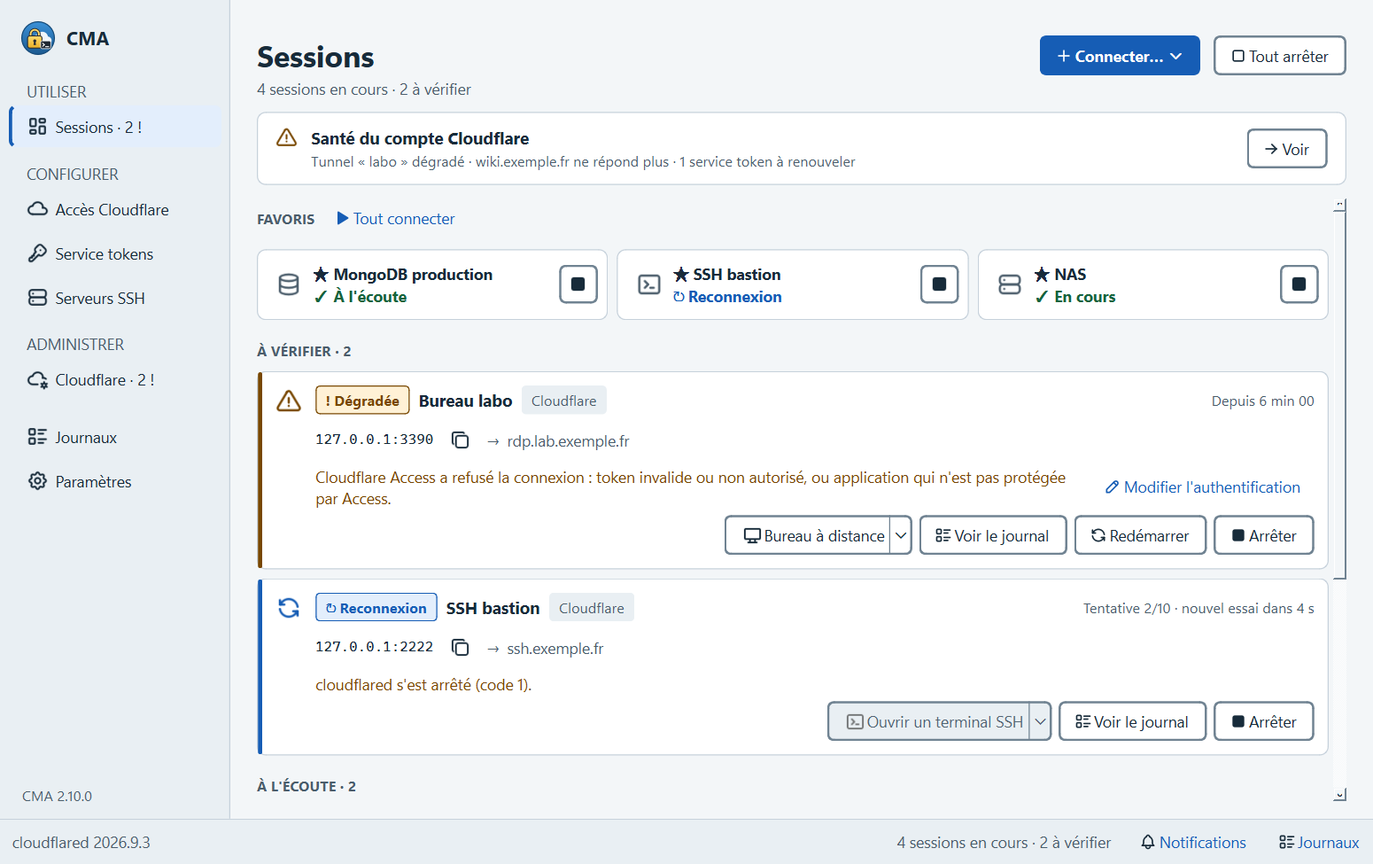
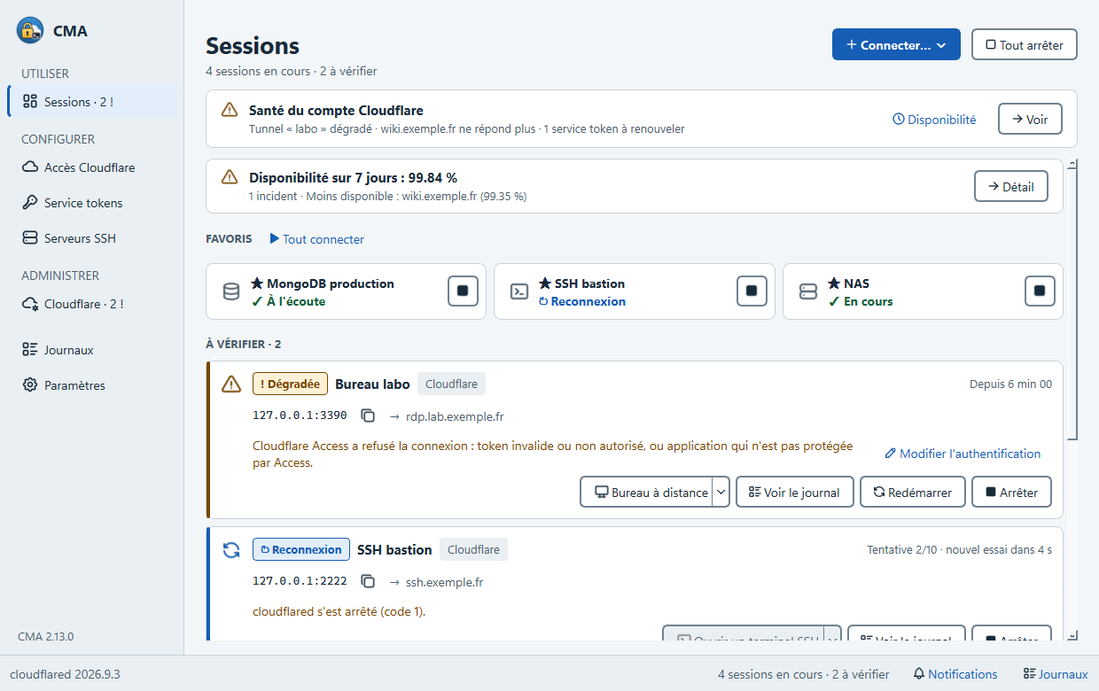
P37: documentation de P33 à P36, captures (objectifs, tuile), contexte transmis à la boîte ouverte depuis la tuile

diff --git a/scripts/capture_screenshots.py b/scripts/capture_screenshots.py
@@ -424,8 +424,8 @@ def capture_guide(window, output: Path) -> None:
     review.table.selectRow(0)
     save(review, "guide-bilan.png")
 
-    demo_availability(ctx.paths.data_dir / "availability.json")
-    availability = AvailabilityDialog(window, ctx.paths.data_dir / "availability.json")
+    # Le journal de démonstration est créé une fois, par `main` (la tuile de la page Sessions le lit aussi).
+    availability = AvailabilityDialog(window, ctx.paths.data_dir / "availability.json", ctx)
     availability.table.selectRow(availability.keys.index("service:wiki.exemple.fr"))
     save(availability, "guide-disponibilite.png")
 
@@ -447,6 +447,40 @@ def capture_guide(window, output: Path) -> None:
     capture_guide_health_menu(window, output)
     capture_guide_sends(window, output)
     capture_guide_maintenance_card(window, output)
+    capture_guide_objectives(window, output)
+
+
+def capture_guide_objectives(window, output: Path) -> None:
+    """`guide-objectifs.png` : boîte Disponibilité avec la colonne « Objectif » : un objectif par défaut, un objectif
+    propre tenu et un autre manqué (▼ et teinte d'alerte). Les objectifs de démonstration sont retirés ensuite."""
+    from cma.core.slo import set_target
+    from cma.ui.views.cloud.availability import AvailabilityDialog
+
+    ctx = window.ctx
+    settings = ctx.config().settings
+    saved = (dict(settings.availability_targets), settings.default_availability_target)
+
+    def demo(config) -> None:
+        set_target(config, "service:wiki.exemple.fr", 99.9)  # 99,45 % sur 30 jours : sous l'objectif
+        set_target(config, "service:grafana.lab.exemple.fr", 99.5)  # tenu
+        config.settings.default_availability_target = 99.0  # tunnels sans objectif propre
+
+    def restore(config) -> None:
+        config.settings.availability_targets, config.settings.default_availability_target = saved
+
+    ctx.update_config(demo)
+    try:
+        dialog = AvailabilityDialog(window, ctx.paths.data_dir / "availability.json", ctx)
+        dialog.table.selectRow(dialog.keys.index("service:grafana.lab.exemple.fr"))
+        dialog.show()
+        for _ in range(8):
+            QApplication.processEvents()
+        dialog.grab().save(str(output / "guide-objectifs.png"))
+        dialog.close()
+        dialog.deleteLater()
+    finally:
+        ctx.update_config(restore)
+        QApplication.processEvents()
 
 
 def capture_guide_alerts(window, output: Path) -> None:
@@ -628,7 +662,9 @@ def main() -> int:
         core=core, engine=engine, runner=TaskRunner(engine), bridge=bridge, theme=theme, prompter=None
     )  # type: ignore[arg-type]
     demo_config(ctx)
+    demo_availability(paths.data_dir / "availability.json")
 
+    from cma.core.availability import AvailabilityLog
     from cma.ui.main_window import MainWindow
     from cma.ui.views import settings as settings_view
 
@@ -677,6 +713,10 @@ def main() -> int:
         window.settings.data_dir.setText(r"C:\Users\<utilisateur>\AppData\Roaming\CloudflaredManager")
         suffix = "sombre" if theme_name == Theme.DARK else "clair"
         show_demo_health(window)
+        # Tuile « Disponibilité » de la page Sessions : le journal de la surveillance est tenu en mémoire par la
+        # fenêtre ; on lui donne celui de démonstration.
+        window.availability = AvailabilityLog(paths.data_dir / "availability.json")
+        window.dashboard.uptime.refresh()
         for key in ("dashboard", "profiles", "tokens", "ssh", "cloud", "logs", "settings"):
             window.show_view(key)
             if key == "profiles":

diff --git a/tests/ui/test_uptime_tile.py b/tests/ui/test_uptime_tile.py
@@ -250,3 +250,20 @@ def test_tile_module_is_light_at_import():
     assert tile_module.__file__
     result = subprocess.run([sys.executable, "-c", code], check=False, capture_output=True, timeout=60)
     assert result.returncode == 0, result.stderr.decode(errors="replace")
+
+
+def test_dialog_opened_from_the_window_gets_its_context(qtbot, gui, tmp_path, monkeypatch):
+    """Ouverte depuis la tuile ou la carte « Santé » (parent : la fenêtre), la boîte reçoit le contexte : objectifs
+    affichés et boutons « Définir l'objectif… » et « Objectif par défaut… » actifs."""
+    _ctx, window = gui
+    path = tmp_path / "availability.json"
+    sample_log(path).save()
+    shown: list[AvailabilityDialog] = []
+    monkeypatch.setattr(
+        AvailabilityDialog, "exec", lambda self: shown.append(self) or QDialog.DialogCode.Accepted
+    )
+    show_availability_on(window, path, "service:wiki.exemple.fr")
+    dialog = shown[0]
+    qtbot.addWidget(dialog)
+    assert dialog.ctx is window.ctx
+    assert dialog.default_button.isEnabled() and dialog.target_button.isEnabled()

diff --git a/src/cma/ui/views/uptime_tile.py b/src/cma/ui/views/uptime_tile.py
@@ -167,6 +167,7 @@ def show_availability_on(parent: QWidget, path: Path, key: str | None) -> None:
     """Fonction de module : les tests la remplacent pour ne pas ouvrir de boîte modale. Importée à l'ouverture."""
     from cma.ui.views.cloud.availability import AvailabilityDialog
 
-    dialog = AvailabilityDialog(parent, path)
+    # Le contexte de la fenêtre (objectifs lus et modifiables), comme `show_availability` depuis les outils du compte.
+    dialog = AvailabilityDialog(parent, path, getattr(parent, "ctx", None))
     select_key(dialog, key)
     dialog.exec()

diff --git a/docs/GUIDE.md b/docs/GUIDE.md
@@ -166,16 +166,47 @@ importé **désactivé** : ressaisissez son adresse dans Paramètres › Génér
 export chiffré (case **Inclure les secrets**, avec une phrase de passe), l'adresse suit, chiffrée comme les
 autres secrets, et le canal reste actif.
 
+### Suivre la disponibilité, fixer des objectifs
+
+Sur la page **Sessions**, la tuile **Disponibilité** donne d'un coup d'œil le taux des 7 derniers jours, le nombre
+d'incidents et l'objet le moins disponible ; **Détail** ouvre la boîte ci-dessous sur cet objet. Elle reste cachée
+tant que la surveillance n'a rien relevé. Quand la carte « Santé du compte » signale une panne, son bouton
+**Disponibilité** ouvre la même boîte sur le premier objet en panne.
+
+![La tuile Disponibilité, sous la carte Santé du compte](captures/dashboard-clair.png)
+
 **Outils › Disponibilité…** montre, pour chaque tunnel et service, le taux de disponibilité sur 7 et 30 jours, le
-temps de réponse moyen et la liste des incidents (début, fin, durée, cause). Choisissez une ligne pour son
-graphique jour par jour (7, 30 ou 90 jours) : une barre par jour local (verte à partir de 99,9 %, orange à partir de
-98 %, rouge en dessous) et la courbe du temps de réponse moyen.
+temps de réponse moyen, le nombre d'incidents, l'objectif et la liste des incidents (début, fin, durée, cause).
+Choisissez une ligne pour son graphique jour par jour (7, 30 ou 90 jours) : une barre par jour local (verte à partir
+de 99,9 %, orange à partir de 98 %, rouge en dessous) et la courbe du temps de réponse moyen.
 
 ![Disponibilité d'un service sur 30 jours](captures/guide-disponibilite.png)
 
 **Exporter le rapport…** enregistre la période choisie en page HTML autonome (à joindre à un compte rendu) ou en CSV
 pour un tableur : disponibilité, durée des pannes et incidents de chaque objet.
 En ligne de commande, `cma availability --output rapport.html` (ou `.csv`, `.json`) écrit le même rapport.
+
+Un service doit tenir au moins 99,9 % du temps ? **Définir l'objectif…** (même boîte) fixe la disponibilité minimale
+attendue du tunnel ou du service choisi, de 50 à 100 %. **Objectif par défaut…** fixe celle de tous les objets qui
+n'ont pas d'objectif propre, et **Retirer l'objectif**, dans la boîte de saisie, supprime l'objectif d'un objet. La
+colonne **Objectif** le compare à la disponibilité des 30 derniers jours : sous l'objectif, la valeur porte un ▼ et,
+avec le taux sur 30 jours, la teinte d'alerte. Sans objectif, elle affiche « — ».
+
+![Disponibilité : l'objectif de chaque objet, wiki.exemple.fr sous le sien](captures/guide-objectifs.png)
+
+Quand un tunnel ou un service passe sous son objectif, CMA envoie **une seule alerte** à chaque canal d'alerte actif
+(« objectif manqué »), puis un message de retour quand il remonte au-dessus (« objectif retrouvé », seulement aux
+canaux qui reçoivent les retours), depuis CMA ouvert comme depuis la tâche planifiée. Rien n'est envoyé pour un objet
+en sourdine ou en maintenance (le message vient à la fin de la sourdine si la situation dure), ni pour un objet sans
+relevé sur les 30 jours, ni pour un type que la surveillance ne relève plus. **Envois récents…** note ces messages avec
+la nature **Objectif**.
+
+Limite : une disponibilité qui oscille autour de l'objectif peut alterner alerte et retour (pas d'hystérésis).
+
+Pour un compte rendu mensuel, `cma availability --month 2026-10` donne la disponibilité du mois civil (en jours
+locaux) de chaque tunnel et service, avec son objectif et l'écart en points ; le mois en cours va jusqu'à aujourd'hui.
+Avec `--output rapport.html` (ou `.csv`, `.json`), le rapport part dans un fichier : une ligne par objet, puis les
+incidents du mois.
 
 ## Renouveler un service token
 
@@ -260,6 +291,37 @@ Cloudflare. Pour un autre accès Cloudflare (un client, un compte personnel), **
 collez le jeton et donnez-lui un nom. Le choix du jeton apparaît alors dans l'en-tête ; chaque jeton revient à son
 dernier compte, et la surveillance suit le jeton choisi.
 
+### Être prévenu des pannes de tous les comptes
+
+Par défaut, la surveillance ne relève que le compte affiché dans la vue Cloudflare : les pannes des autres comptes ne
+vous préviennent pas. Cochez **Paramètres › Général › Cloudflare › Surveiller tous les comptes** (la case est
+disponible à partir de deux jetons) pour relever **chaque jeton d'API enregistré**, avec le dernier compte choisi avec
+lui, CMA ouvert comme depuis la tâche planifiée. Le jeton affiché garde le compte de la vue ; un jeton qui n'a encore
+choisi aucun compte prend le premier qu'il voit. Un compte vu par deux jetons n'est relevé qu'une fois (le jeton de la
+surveillance, s'il est choisi, passe d'abord).
+
+- Dès que deux comptes sont surveillés, le nom du compte suit chaque tunnel et chaque nom d'hôte en panne : « labo
+  (Compte A) ». Il apparaît dans les notifications, les alertes envoyées aux canaux, le sous-menu **Pannes** de l'icône
+  et le journal de disponibilité. Deux comptes du même nom sont distingués par le nom de leur jeton.
+- Un jeton refusé, absent du coffre ou injoignable n'arrête pas les autres : il est signalé dans le journal de CMA et,
+  pour `cma tunnels`, sur la sortie d'erreur (code de retour 1 si rien d'autre ne va mal ; avec `--json`, chaque
+  tunnel porte son compte dans `account`). Tant qu'un compte n'a pas pu être lu, CMA ne clôt aucun de ses incidents et
+  n'annonce pas de faux retour.
+- Pour surveiller **deux comptes d'un même jeton**, enregistrez le jeton deux fois, sous deux noms, et choisissez un
+  compte différent avec chacun.
+- Les objectifs, sourdines et maintenances restent par tunnel et par nom d'hôte : rien à refaire en activant ou en
+  coupant le réglage.
+
+Limites : **Ouvrir** (sous-menu **Pannes**) et **Diagnostiquer…** sur un objet d'un autre compte mènent au compte
+affiché, pas au sien : choisissez d'abord son jeton dans la vue Cloudflare ; la carte « Santé du compte » ne nomme le
+compte que pour une panne unique (avec plusieurs pannes, elle les résume).
+
+Attention : **tous les jetons du coffre servent alors à la surveillance**, tâche planifiée comprise. Pour un compte
+que vous ne faites que surveiller, enregistrez un jeton en lecture seule. Le nom du compte part vers les canaux
+d'alerte : chez Cloudflare, le nom par défaut d'un compte contient l'adresse e-mail de son propriétaire (« …'s
+Account »). Renommez le compte si un canal est public (un sujet ntfy). Voir [SECURITE.md](SECURITE.md) et l'[ADR
+0003](adr/0003-surveillance-de-plusieurs-comptes.md).
+
 ## Automatiser en ligne de commande
 
 La commande `cma` (installée avec l'application) lit les mêmes données que l'interface, avec le jeton d'API actif
@@ -270,8 +332,9 @@ message d'usage et le code 2 : essayez la commande à la main avant de la planif
 
 | Commande | Ce qu'elle fait | Code 2 si… |
 | --- | --- | --- |
-| `cma tunnels [--services] [--json]` | état des tunnels, et avec `--services` le test de chaque nom d'hôte HTTP | un tunnel ou un service est en panne |
+| `cma tunnels [--services] [--json]` | état des tunnels, et avec `--services` le test de chaque nom d'hôte HTTP ; avec « Surveiller tous les comptes », chaque jeton avec son compte | un tunnel ou un service est en panne (code 1 si un jeton est illisible et que rien d'autre ne va mal) |
 | `cma availability [--days 1/7/30/90] [--json] [--output FICHIER]` | disponibilité et incidents relevés par la surveillance ; `--output` écrit le rapport dans un fichier `.html`, `.csv` ou `.json` (selon l'extension) au lieu de l'afficher | un incident est en cours (code 1 si le fichier ne peut pas être écrit ou si l'extension est inconnue) |
+| `cma availability --month AAAA-MM [--json] [--output FICHIER]` | rapport d'un mois civil (jours locaux) avec l'objectif et l'écart de chaque objet ; le mois en cours va jusqu'à aujourd'hui ; exclusif avec `--days` ; sans relevé ce mois-là : « Aucun relevé en AAAA-MM. » | — (code 1 si le mois est invalide ou à venir, ou si le fichier ne peut pas être écrit) |
 | `cma review [--json] [--all]` | bilan de sécurité du compte (`--all` : avec les constats ignorés) | un constat de gravité élevée n'est pas ignoré |
 | `cma snapshot` | instantané de la configuration, et ce qui a changé depuis le précédent | quelque chose a changé |
 | `cma alerts test` | un message de test vers chaque canal d'alerte actif | — (code 1 si un canal échoue) |
@@ -279,7 +342,8 @@ message d'usage et le code 2 : essayez la commande à la main avant de la planif
 
 Exemples : `cma review` planifié chaque lundi, qui échoue si un constat élevé apparaît ;
 `cma availability --days 30 --json` en fin de mois pour alimenter un tableau de bord ; `cma availability --days 30
---output rapport.html` pour en tirer une page à joindre à un compte rendu.
+--output rapport.html` pour en tirer une page à joindre à un compte rendu ; `cma availability --month 2026-10 --output
+octobre.html` pour le rapport du mois, objectifs compris.
 
 ## Raccourcis clavier et nouveautés
 

diff --git a/docs/ARCHITECTURE.md b/docs/ARCHITECTURE.md
@@ -40,11 +40,12 @@ Deux règles structurent le code :
 | `src/cma/core/cloudflared/` | Commande sans shell, analyse des journaux, session, binaire et téléchargement vérifié. |
 | `src/cma/core/ssh/` | Connexions asyncssh (rebond ProxyJump compris), clés d'hôte, clés, redirections locales, inverses et SOCKS 5, découverte de ports (Linux et Windows), transfert de fichiers SFTP (`sftp.py`). |
 | `src/cma/core/cfapi.py` | Client de l'API Cloudflare v4 : comptes, zones, tunnels, DNS, Access, service tokens. |
-| `src/cma/core/cfadmin.py` | Relie l'API à la configuration et au coffre : import de profils, tokens, publication, tunnels, jetons d'API nommés, lecture du compte en parallèle. |
+| `src/cma/core/cfadmin.py` | Relie l'API à la configuration et au coffre : import de profils, tokens, publication, tunnels, jetons d'API nommés, lecture du compte en parallèle, relevé de la surveillance d'un ou de tous les comptes (`watch_tunnels`, `watch_services` ; [ADR 0003](adr/0003-surveillance-de-plusieurs-comptes.md)). |
 | `src/cma/core/dnscheck.py`, `hostprobe.py` | DNS des noms d'hôte publiés ; test d'un nom d'hôte depuis Internet (Access, vérification de navigateur, 1033, 502…). |
 | `src/cma/core/tunnelwatch.py`, `servicewatch.py` | Ce qui a changé d'un relevé à l'autre : tunnels (état de l'API), services publiés (tests depuis Internet). |
 | `src/cma/core/availability.py`, `alerts.py`, `monitoring.py` | Journal de disponibilité (incidents, taux par jour local, 90 jours), alertes vers ntfy, Slack, Teams, Discord ou un webhook, sourdine et maintenances hebdomadaires, rappels des pannes qui durent ; suites d'un relevé communes à l'interface et à la tâche planifiée. |
-| `src/cma/core/alertstate.py`, `digest.py` | État des envois (`alert_state.json` : derniers rappels, semaine du dernier résumé, [ADR 0002](adr/0002-etat-des-alertes-hors-de-la-configuration.md)) ; résumé hebdomadaire de la disponibilité, dû le lundi à partir de 9 h. |
+| `src/cma/core/alertstate.py`, `digest.py` | État des envois (`alert_state.json` : derniers rappels, semaine du dernier résumé, objets annoncés sous leur objectif, [ADR 0002](adr/0002-etat-des-alertes-hors-de-la-configuration.md)) ; résumé hebdomadaire de la disponibilité, dû le lundi à partir de 9 h. |
+| `src/cma/core/slo.py`, `slo_report.py` | Objectifs de disponibilité : objectif d'un objet ou par défaut, état sous l'objectif sur 30 jours, franchissements à annoncer (une alerte, puis le retour) ; rapport d'un mois civil en jours locaux (texte, CSV, JSON, HTML). Sans Qt ni envoi : la sourdine vient de `monitoring`. |
 | `src/cma/core/alertlog.py` | Journal des envois d'alertes (`alert_log.json`, 200 derniers, [ADR 0002](adr/0002-etat-des-alertes-hors-de-la-configuration.md)) : date, canal, nature, objet, résultat ; aucune adresse (`scrub`), écriture atomique, verrou de processus, tâche planifiée seulement si CMA est fermé. |
 | `src/cma/core/security.py` | Bilan de sécurité du compte (analyse pure) : constats, gravité, correction possible. |
 | `src/cma/core/privnet.py`, `audit.py`, `traffic.py`, `snapshot.py`, `permissions.py` | Outils du compte : réseaux privés (WARP), journal d'audit, trafic GraphQL, instantanés comparés, permissions du jeton vérifiées en lecture. |
@@ -62,6 +63,7 @@ Deux règles structurent le code :
 | `src/cma/platform/` | Job Object Windows, démarrage automatique, lanceurs (terminal, RDP, Compass), tâche planifiée, notification système, liens `cma://`, nom du réseau Wi-Fi. |
 | `src/cma/ui/` | Interface : fenêtre, vues, boîtes de dialogue (palette Ctrl+K, espaces de travail, diagnostic), thème, verrouillage, zone de notification. |
 | `src/cma/ui/dialogs/sends.py` | Boîte « Envois récents » (Paramètres › Général › Alertes) : lit `alert_log.json`, échecs en rouge, effacement du journal après confirmation. |
+| `src/cma/ui/views/uptime_tile.py` | Tuile « Disponibilité » de la page Sessions (7 derniers jours, lue dans le journal en mémoire de la surveillance) et ouverture de la boîte Disponibilité sur un objet. |
 | `src/cma/ui/monitor.py`, `wake.py` | Surveillance du compte côté Qt (minuteurs, signaux ; [ADR 0001](adr/0001-surveillance-hors-de-la-fenetre.md)) ; sortie de veille et retour du réseau. |
 | `src/cma/ui/views/cloud/` | Vue Cloudflare : `view.py` (compte, en-tête, tuiles), onglets `tunnels_tab.py`, `apps_tab.py`, `tokens_tab.py`, menu Outils (`account_tools.py`) et ses boîtes. |
 | `src/cma/i18n.py`, `i18n_<code>.py` | Traduction : source en français, catalogues anglais, allemand et espagnol vérifiés par test, repli sur l'anglais. |
@@ -114,8 +116,8 @@ au premier usage, et l'application les précharge dans un thread 300 ms après l
 
 ```text
 Monitor (ui/monitor.py)                tâche planifiée (cma tunnels --notify, CMA fermé)
-  ├─ toutes les 5 min : tunnel_states()     ├─ tunnel_states() + check_services()
-  ├─ toutes les 15 min : check_services()   │
+  ├─ toutes les 5 min : watch_tunnels()     ├─ watch_tunnels() + watch_services()
+  ├─ toutes les 15 min : watch_services()   │
   │   (jeton de la surveillance, lecture)   │
   ▼                                         ▼
 TunnelWatch / ServiceWatch          core/monitoring.record_tunnels / record_services
@@ -124,6 +126,14 @@ TunnelWatch / ServiceWatch          core/monitoring.record_tunnels / record_serv
   ▼                                         │
 troubled(tunnels, services) ──► navigation « Cloudflare · N ! », zone de notification, carte « Santé du compte »
 ```
+
+Avec « Surveiller tous les comptes », les deux relevés passent par `CloudflareAdmin.watch_tunnels` et `watch_services` :
+chaque jeton d'API nommé est lu avec son dernier compte choisi, un fil par compte, et un jeton en échec n'arrête pas les
+autres (relevé alors incomplet : aucun incident clos). Les clés (`tunnel:<id>`, `service:<nom>`) ne portent pas le
+compte ; seul le libellé le reçoit dès que deux comptes sont surveillés ([ADR
+0003](adr/0003-surveillance-de-plusieurs-comptes.md)). Après chaque relevé, `core/slo.py` compare la disponibilité des
+30 derniers jours à l'objectif de chaque objet et annonce un franchissement une seule fois (état `slo` de
+`alert_state.json`).
 
 La tâche planifiée n'écrit le journal que si CMA est fermé ; elle s'en sert de mémoire pour ne prévenir qu'au début
 et à la fin d'une panne. Un objet en sourdine est relevé et journalisé, sans notification ni alerte. Une

diff --git a/CLAUDE.md b/CLAUDE.md
@@ -248,6 +248,32 @@ Tout ce qui a été retiré reste lisible dans l'historique git (`git log --diff
   de processus sérialise « lire, ajouter, écrire », et un journal qui ne s'écrit pas n'empêche jamais une alerte
   de partir. Aucune adresse, même en morceaux : messages passés par `scrub` (200 caractères). La tâche planifiée
   ne l'écrit que si CMA est fermé ; `cma alerts test` et `digest` y notent leurs envois.
+- **Objectifs de disponibilité** (`cma.core.slo`, `slo_report`, P33) : objectif par objet
+  (`Settings.availability_targets`, clés `tunnel:<id>` et `service:<nom>`) puis `default_availability_target`, de 50 à
+  100 %, comparé à la disponibilité des 30 derniers jours locaux. Les objets déjà annoncés sous leur objectif sont dans
+  l'état `slo` de `alert_state.json` (ADR 0002) : **une alerte par franchissement**, puis le retour (aux canaux qui
+  veulent les retours) ; l'état note l'envoi seulement quand un canal l'a reçu (le retour, dans tous les cas). Rien pour
+  un objet en sourdine ou en maintenance, ni sans relevé (un trou n'est pas une panne). **Pas d'hystérésis** : un objet
+  qui oscille autour de l'objectif alterne alerte et retour, c'est une limite assumée. Les alertes partent aussi CMA
+  ouvert sans rappels ni résumé (`has_targets` garde le calcul quand aucun objectif n'existe). `cma availability --month`
+  vit dans `cli.show_month_availability` (code 0, 1 si mois invalide ou à venir) ; le mois se calcule sur des dates
+  locales, pas des instants.
+- **Plusieurs comptes** (P34, [ADR 0003](docs/adr/0003-surveillance-de-plusieurs-comptes.md)) : avec
+  `watch_all_accounts`, `CloudflareAdmin.watch_tunnels` et `watch_services` relèvent **chaque jeton d'API avec son
+  dernier compte choisi** (`ApiToken.account_id` ; pour le jeton actif, le compte de la vue), pas tous les comptes qu'il
+  voit : deux comptes d'un même jeton, c'est le jeton enregistré deux fois. Un compte lu par deux jetons n'est relevé
+  qu'une fois (jeton de la surveillance, puis jeton actif). **Clés non préfixées** : `tunnel:<id>` et `service:<nom>`
+  gardent leur forme (identifiants uniques chez Cloudflare), donc journal, sourdines, maintenances et `alert_state.json`
+  n'ont rien à migrer ; seul le libellé reçoit « (Compte A) » dès que deux comptes sont surveillés. Un jeton en échec est
+  journalisé (`WatchFailure`) sans arrêter les autres, et le relevé incomplet (`complete=False`) ne clôt aucun incident.
+  Limites connues : « Ouvrir » et « Diagnostiquer… » sur un objet d'un autre compte ouvrent le compte affiché, et la carte
+  « Santé du compte » ne nomme le compte que pour une panne unique. Les tests de durée utilisent `delay` du faux serveur
+  (`two_accounts`).
+- **Verrou des règles d'ingress** (`cfapi._INGRESS_LOCK`, P36) : toute modification de la configuration d'un tunnel
+  (lecture, changement, PUT complet) passe par `@_ingress_exclusive`. Une instance de `CloudflareApi` est recréée à chaque
+  appel de `CloudflareAdmin.api()` : le verrou est donc global au module (un `RLock`), pas un attribut de l'instance.
+  Sans lui, trois « Monter » rapprochés lisaient la même configuration et le dernier écrasait les autres. Une nouvelle
+  méthode qui écrit l'ingress prend le même décorateur.
 - **Travail en agents parallèles** : chaque agent a son `git worktree` sous `.claude/worktrees/`, et lance les
   tests depuis ce worktree avec `PYTHONPATH=src` et le `.venv` du dépôt principal. Les traductions passent par un
   JSON que l'orchestrateur réapplique à l'intégration : les trois catalogues entrent en conflit à la fusion. Une
@@ -269,6 +295,11 @@ Qt et PySide :
   des tunnels, puis sur le tableau des service tokens après un premier correctif limité aux arbres. Reproduit
   dans un conteneur avec la suite complète répétée (un abandon toutes les deux ou trois exécutions) ou la vue
   Cloudflare en boucle avec `pytest --no-qt-log -s` (Python 3.14 affiche alors la pile C).
+- `table.selectRow(n)` laisse parfois la sélection vide sous la charge (suite en parallèle) : un test qui en dépend
+  sélectionne explicitement par le modèle de sélection (`selectionModel().setCurrentIndex(index, ClearAndSelect | Rows)`,
+  test SFTP de `test_views.py`).
+- `selectRow` annonce la sélection **avant** de poser l'index courant : un détail qui dépend de l'index courant doit
+  aussi suivre `currentChanged`, sinon il reste parfois vide (détail des journaux, corrigé en P37).
 - `monkeypatch.setattr(QMenu, "exec", …)` n'intercepte pas l'appel : le menu modal bloque le test. Séparer la
   construction du menu de son `exec`.
 - Un widget d'une vue non affichée a `isVisible() == False` : afficher la vue avant de tester la visibilité.

diff --git a/docs/SECURITE.md b/docs/SECURITE.md
@@ -12,8 +12,8 @@ Ce document décrit ce que CMA protège, comment, et ses limites.
 | Clés privées SSH générées | Dossier `ssh_keys` du dossier de données, chiffrables par phrase de passe (bcrypt/OpenSSH). |
 | Configuration `config.json` | Ne contient aucun secret. |
 | Instantanés `snapshots/*.json` | Configuration du compte Cloudflare (règles, politiques, DNS, Client ID des tokens) ; aucun jeton ni secret. Les 30 derniers par compte. |
-| Disponibilité `availability.json` | Incidents et taux des tunnels et services (noms d'hôte, états, durées) ; 90 jours au plus. |
-| État des alertes `alert_state.json` | Dates des derniers rappels de pannes, semaine du dernier résumé hebdomadaire et tunnel de chaque nom d'hôte ; aucun secret. |
+| Disponibilité `availability.json` | Incidents et taux des tunnels et services (noms d'hôte, états, durées) ; 90 jours au plus. Avec « Surveiller tous les comptes », le libellé d'un objet suit le nom de son compte (pas sa clé). |
+| État des alertes `alert_state.json` | Dates des derniers rappels de pannes, semaine du dernier résumé hebdomadaire, tunnel de chaque nom d'hôte et objets déjà annoncés sous leur objectif de disponibilité (`slo`, avec la date de l'annonce) ; aucun secret. |
 | Journal des envois `alert_log.json` | Les 200 derniers envois vers les canaux d'alerte (date, nom et type du canal, nature, objet, résultat). Aucun secret : l'adresse d'un canal n'y est jamais écrite, ni en entier ni en morceaux ; les erreurs sont rédigées, les adresses masquées, 200 caractères au plus. Fichier local du dossier de données, hors de la configuration et de tout export, effaçable depuis CMA. |
 | Rapport de disponibilité exporté | Mêmes données (noms d'hôte, taux, incidents), aucun jeton ni secret. La page HTML est autonome : ni script ni ressource externe. |
 | Adresses des canaux d'alerte | Coffre du système (clé `alert:<id>`) : une adresse ntfy, Slack ou Teams vaut un jeton. |
@@ -49,6 +49,14 @@ Ce document décrit ce que CMA protège, comment, et ses limites.
   par une lecture.
 - La surveillance (CMA ouvert ou tâche planifiée) peut utiliser son propre jeton, en lecture seule : un poste
   compromis n'ouvre alors pas l'écriture sur le compte (Paramètres › Général › Cloudflare).
+- **« Surveiller tous les comptes »** (désactivé par défaut) étend la surveillance à **tous les jetons d'API du
+  coffre**, tâche planifiée comprise : chacun sert, à chaque relevé, avec son dernier compte choisi. Un jeton qui
+  peut écrire sur un compte qu'on ne fait que surveiller élargit ce qu'un poste compromis atteint : enregistrez pour
+  ces comptes des jetons en lecture seule. Un jeton refusé est seulement journalisé (jamais sa valeur).
+- Le nom du compte accompagne alors chaque panne, et part **vers les canaux d'alerte** et dans les libellés du
+  journal de disponibilité. Chez Cloudflare, le nom par défaut d'un compte contient l'adresse e-mail de son
+  propriétaire (« …'s Account ») : un canal public (un sujet ntfy) la verrait. Renommez le compte chez Cloudflare si
+  un canal n'est pas privé. Décision et limites : [ADR 0003](adr/0003-surveillance-de-plusieurs-comptes.md).
 - « Exiger Access au niveau du tunnel » fait vérifier le jeton Access par cloudflared lui-même
   (`originRequest.access`) : sans application Access, le service reste fermé au lieu de s'ouvrir. Le bilan de
   sécurité (Outils) signale les noms d'hôte publiés sans Access, les politiques ouvertes à tous et les secrets
@@ -72,7 +80,9 @@ Ce document décrit ce que CMA protège, comment, et ses limites.
 - « Oublier le jeton… » le retire du coffre, après confirmation. Révoquez-le aussi dans le tableau de bord Cloudflare si besoin.
 - En ligne de commande, `cma tunnels` (jeton de la surveillance), `cma review` et `cma snapshot` (jeton actif)
   lisent le jeton d'API dans le coffre ; `cma alerts test` y lit les adresses des canaux d'alerte ; `cma
-  availability` ne lit que `availability.json`. Aucune n'accepte de jeton en argument ni n'en affiche.
+  availability` ne lit que `availability.json` (et `config.json`, sans secret, pour les objectifs de `--month`).
+  Avec « Surveiller tous les comptes », `cma tunnels` lit tous les jetons du coffre. Aucune n'accepte de jeton en
+  argument ni n'en affiche.
   `cma review` ne fait que lire : les corrections du bilan se font dans l'interface, après confirmation.
 
 ## Mise à jour de CMA

diff --git a/CHANGELOG.md b/CHANGELOG.md
@@ -2,6 +2,44 @@
 
 Format inspiré de [Keep a Changelog](https://keepachangelog.com/fr/1.1.0/), numérotation [SemVer](https://semver.org/lang/fr/).
 
+## [Non publié]
+
+### Ajouté
+- **Objectifs de disponibilité** (Outils › Disponibilité…) : **Définir l'objectif…** pose, change ou retire
+  l'objectif d'un tunnel ou d'un service, **Objectif par défaut…** celui des objets qui n'en ont pas (de 50 à 100 %).
+  La disponibilité des 30 derniers jours est comparée à l'objectif : la colonne « Objectif » le montre, avec un ▼ et la
+  teinte d'alerte sous l'objectif. CMA prévient **une seule fois** sur les canaux d'alerte quand un objet passe
+  dessous, puis quand il remonte (aux canaux qui veulent les retours), CMA ouvert comme depuis la tâche planifiée.
+  Rien pour un objet en sourdine ou en maintenance, ni sans relevé. Les envois ont la nature « Objectif » dans le
+  journal des envois. Limite : pas d'hystérésis, une disponibilité qui oscille autour de l'objectif peut alterner alerte
+  et retour.
+- **Rapport mensuel** : `cma availability --month AAAA-MM` donne la disponibilité d'un mois civil (en jours locaux) avec
+  l'objectif et l'écart de chaque objet ; le mois en cours va jusqu'à aujourd'hui. `--json` et `--output` (HTML, CSV ou
+  JSON selon l'extension) fonctionnent comme pour `--days`, avec lequel `--month` est exclusif.
+- **Surveillance de plusieurs comptes** (Paramètres › Général › Cloudflare › **Surveiller tous les comptes**,
+  désactivé par défaut) : chaque jeton d'API nommé est relevé avec le dernier compte choisi avec lui, CMA ouvert comme
+  depuis la tâche planifiée. Dès que deux comptes sont surveillés, le nom du compte suit chaque panne (« labo (Compte
+  A) ») dans les notifications, les alertes, le menu « Pannes » et le journal de disponibilité. Un jeton refusé ne
+  bloque pas les autres : `cma tunnels` le signale sur la sortie d'erreur (code 1 si rien d'autre ne va mal) et ajoute
+  le champ `account` à sa sortie `--json`. Pour surveiller deux comptes d'un même jeton, l'enregistrer deux fois.
+  Limites : **Ouvrir** et **Diagnostiquer…** sur un objet d'un autre compte mènent au compte affiché ; la carte « Santé
+  du compte » ne nomme le compte que pour une panne unique. Voir l'ADR 0003.
+- **Tuile « Disponibilité » sur la page Sessions** : taux des 7 derniers jours, incidents et objet le moins disponible ;
+  **Détail** ouvre la boîte Disponibilité sur cet objet. Elle reste cachée tant que rien n'a été relevé. La carte
+  « Santé du compte » a de même un bouton **Disponibilité** qui ouvre la boîte sur le premier objet en panne.
+
+### Modifié
+- Traductions allemandes et espagnoles relues (en espagnol, « Paramètres » se dit « Configuración »). La colonne
+  « Nature » du journal des envois est plus large, et la légende des tuiles de la vue Cloudflare passe à la ligne au
+  lieu d'être coupée.
+- `alert_state.json` garde aussi les objets déjà annoncés sous leur objectif (clé `slo`, absente sans objectif).
+
+### Corrigé
+- Plusieurs modifications rapprochées des règles d'un tunnel (« Monter » cliqué trois fois de suite) ne s'écrasent
+  plus : la lecture, le changement et l'écriture de la configuration d'un tunnel se font l'un après l'autre.
+- Journaux : le détail d'une ligne suit aussi l'index courant, il restait parfois vide.
+- Les alertes d'objectif de disponibilité partent aussi CMA ouvert quand ni rappel ni résumé n'est réglé.
+
 ## [2.13.0] - 2026-10-15
 
 ### Ajouté
